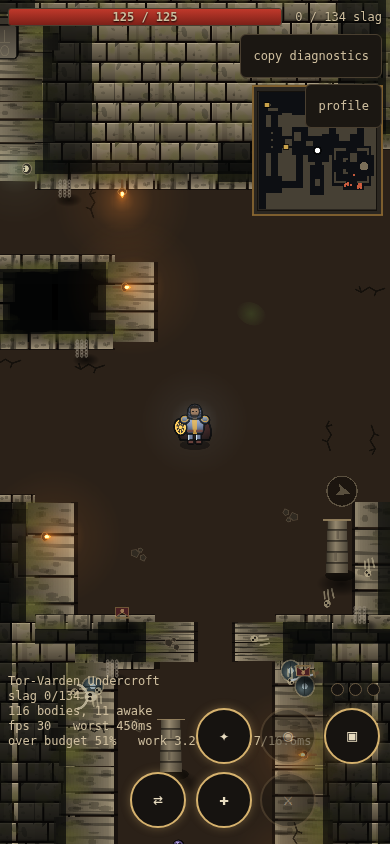
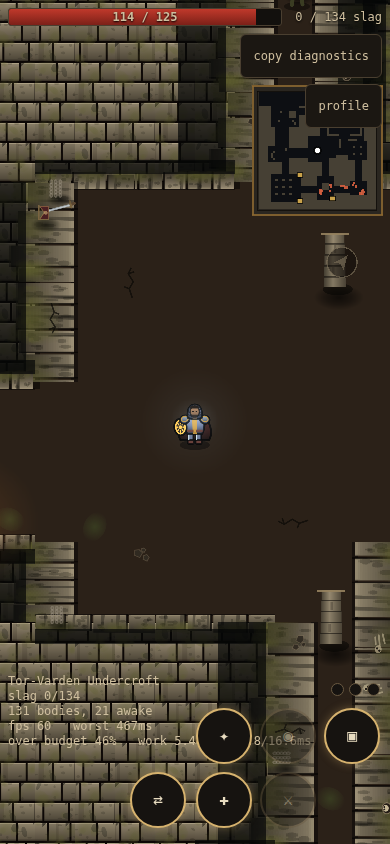
Report whether the mood was on, beside the frame rate
The diagnostics dump gave fps, percentiles and over-budget share, and never
said whether lowFx had engaged. That is the one omission that can invert a
reading: 60fps at full effects and 60fps with the atmosphere already shed are
completely different findings about the same number, and a dump that comes
back from a device you cannot reach has to carry it.

`effects` now reports `full` or `LOW (mood shed)`, how many times the governor
dropped and restored this session, and its last sample (work, delivered
median, and the display period it was judged against). The counters are new on
FxGovernor for the same reason: "it is at 60fps now" and "it dropped a minute
ago and has been coasting since" are not the same claim.

Also fixed two flakes in smoke-prof, both artefacts of profiling on a box that
stalls for half a second at a time rather than faults in the profiler:

  - The planted cost was 24ms, far enough past the refresh that several layers
    all measured the vsync floor and read alike, so the profile named three of
    them. That is the clamping working as documented; a fixture has to be
    built above it. Ten leaves the baseline clear of the ceiling.
  - A clamped row is no longer counted as an accusation. The report already
    says in as many words that such a number is the refresh ceiling rather
    than the layer's cost, and when several layers reach it they all read the
    same.
  - Sixty samples per phase instead of thirty, and the profile is re-run once
[…]

diff --git a/phaser/src/diagnostics.js b/phaser/src/diagnostics.js
@@ -86,6 +86,11 @@ export class FxGovernor {
     // turning the mood off is what makes the frame look affordable again.
     this.need = 3;
     this.droppedAt = 0;
+    // How many times it has actually fired this session. Without this the dump
+    // cannot distinguish "60fps with everything on" from "60fps because the
+    // mood was shed a minute ago", and those are completely different findings
+    // about the same number.
+    this.drops = 0; this.raises = 0;
     const done = () => {
       if (!this.at) return;
       this.work.push(performance.now() - this.at);
@@ -146,6 +151,7 @@ export class FxGovernor {
         const soon = this.droppedAt && performance.now() - this.droppedAt < 12000;
         if (soon) this.need = Math.min(24, this.need * 2);
         this.droppedAt = performance.now();
+        this.drops++;
         return 'drop';
       }
       return null;
@@ -155,7 +161,7 @@ export class FxGovernor {
     // because the mood is currently off.
     const roomy = p50 <= per * 1.08 && avgWork < raiseMs;
     this.good = roomy ? this.good + 1 : 0;
-    if (this.good >= this.need) { this.good = 0; return 'raise'; }
+    if (this.good >= this.need) { this.good = 0; this.raises++; return 'raise'; }
     return null;
   }
 }
@@ -371,6 +377,10 @@ export function asText(d) {
     'css        ' + d.css + '   buffer ' + d.buffer + '   dpr ' + d.dpr,
     'screen     ' + d.screen,
     'memory     ' + d.mem + '   cores ' + d.cores,
+    // Whether the mood was ON for the numbers below it. A frame rate means one
+    // thing at full effects and quite another with them already shed, and the
+    // dump used to report the number without the flag.
+    d.fx ? 'effects    ' + d.fx : null,
     f ? 'frames     ' + f.frames + ' sampled' : 'frames     ' + d.frame,
     f ? 'fps        ' + f.fps + '  (median ' + f.p50 + 'ms)' : '',
     f ? 'p90/p99    ' + f.p90 + 'ms / ' + f.p99 + 'ms' : '',

diff --git a/phaser/src/delve.js b/phaser/src/delve.js
@@ -178,6 +178,15 @@ export class Delve extends Phaser.Scene {
         return (prof ? prof + '\n\n' : '') +
           asText(collect(this.game, this.log, {
             build: 'phaser delve',
+            // The single most important line in the dump after the frame rate:
+            // 60fps with the mood on and 60fps with it already shed are
+            // different findings about the same number.
+            fx: (lowFx ? 'LOW (mood shed)' : 'full') +
+                '   governor: ' + this.gov.drops + ' drop(s), ' +
+                this.gov.raises + ' restore(s)' +
+                (this.gov.stat ? '   last sample: work ' + this.gov.stat.work +
+                  'ms, frames ' + this.gov.stat.p50 + 'ms against a ' +
+                  this.gov.stat.period + 'ms display' : '   (no sample yet)'),
             bodies: this.pool.length,
             awake: run.awake || 0,
             delve: LEVEL.id

diff --git a/phaser/README.md b/phaser/README.md
@@ -138,6 +138,13 @@ is marked `>=`; the noise band comes from the drift between two baselines
 rather than being picked. `smoke:prof` plants a known cost in one layer and
 asserts the profile names that layer and clears the other twelve.
 
+The dump says whether the mood was ON for the numbers beside it. It did not,
+and that was the one omission that could invert a reading: 60fps at full
+effects and 60fps with the atmosphere already shed are different findings
+about the same number. `effects` now reports `full` or `LOW (mood shed)`, how
+many times the governor dropped and restored this session, and its last
+sample.
+
 **And the governor that takes it away.** The port had none: `lowFx` is read all
 over — by the atmosphere, and by the core's own budgets — and nothing ever set
 it, so a device that could not hold the frame simply did not. Measured here,
